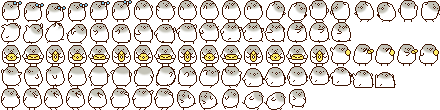
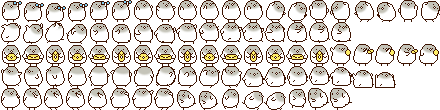
slow

Changed region(s): [[0.6795, 0.7909, 0.7977, 0.9818]]

diff --git a/example/billd/js/Player.js b/example/billd/js/Player.js
@@ -7,6 +7,8 @@
 	var jumpSpeed = -6;
 	var maxSpeed = 7;
 	var g = .2;
+	var LEFT = 1;
+	var RIGHT = 2;
 
 	var idleActions = ["play1", "play2", "play3", "stand1", "attack", "stand3"];
 	var IDLE_TIME = 300;
@@ -44,6 +46,7 @@
 		this.addAnimation("play1", "40-54", true, 6);
 		this.addAnimation("play2", "55-59", true, 6);
 		this.addAnimation("play3", "88-93", true, 6);
+		this.addAnimation("down", "94-95", true, 6);
 		this.addAnimation("jump2", "60-70", false, 8);
 		this.addAnimation("jump1", "71-77", false, 6);
 		this.addAnimation("attack", "80-87", true, 6);
@@ -55,7 +58,7 @@
 		this.bounds = this.getBounds();
 	};
 
-	Player.prototype.keyAction = function(){
+	Player.prototype.keyAction = function(){		
 		if(Math.abs(this.a.x) < .001 && (Keyboard.getIsDown("LEFT") || oState["l"]))
 		{
 			if(Keyboard.getKeyDelay("LEFT") < 300 || oState["l"] > 1)
@@ -91,7 +94,22 @@
 			this.angle = 0;
 		}
 
-		if(this.v.y == 0 && Keyboard.getIsDown("SPACE") && this.shootTime >= SHOOT_TIME)
+		this.a.y = g;
+		if(this.checkSlowDown()){
+			this.playAction("down");
+			this.idleTime = 0;
+
+			this.scaleX = this.slowDownType == RIGHT?-1:1;
+			this.a.y = this.v.y > 0?g*.1:g*1.2;
+
+			if(Keyboard.getIsDown("UP") || Mouse.isDown){
+				this.v.y = jumpSpeed;
+				this.angle = 0;
+
+				this.a.x = this.slowDownType == RIGHT?-maxSpeed*.1:maxSpeed*.1;
+			}
+		}
+		else if(this.v.y == 0 && Keyboard.getIsDown("SPACE") && this.shootTime >= SHOOT_TIME)
 		{
 			this.playAction("play2");
 			this.idleTime = 0;
@@ -125,6 +143,7 @@
 		}
 	};
 
+
 	Player.prototype.playAction = function(name){
 		if(name == "idle")
 		{
@@ -150,6 +169,28 @@
 		}
 	};
 	
+	Player.prototype.checkSlowDown = function(){
+		return !this.onGround && (this.slowDownType == RIGHT && Keyboard.getIsDown("RIGHT") || (this.slowDownType == LEFT && Keyboard.getIsDown("LEFT")))
+	}
+
+	Player.prototype.slowDown = function(x, pos){
+		this.v.x = 0;
+		if(pos == LEFT){
+			this.pos.x = x + this.width*.5;
+		}
+		else{
+			this.pos.x = x - this.width*.5;
+		}
+		this.slowDownType = pos;
+	}
+
+	Player.prototype.walkOnGround = function(y, ang){
+		this.pos.y = y;
+		this.v.y = 0;
+		this.angle = ang;
+		this.onGround = true;
+	}
+
 	Player.prototype.checkMap = function(map)
 	{
 		//脚碰地
@@ -163,9 +204,7 @@
 					var data = dataArr[i];
 					if(data.y <= this.pos.y + 2 && data.y >= this.pos.y - 5)
 					{
-						this.pos.y = data.y;
-						this.v.y = 0;
-						this.angle = data.ang;
+						this.walkOnGround(data.y, data.ang);
 						break;
 					}
 				}
@@ -183,8 +222,7 @@
 					var x = dataArr[i];
 					if(x <= this.pos.x + this.width*.5 && x >= this.pos.x + this.width*.5 - 5)
 					{
-						this.pos.x = x - this.width*.5;
-						this.v.x = 0;
+						this.slowDown(x, RIGHT);
 						return;
 					}
 				}
@@ -198,8 +236,7 @@
 					var x = dataArr[i];
 					if(x <= this.pos.x - this.width*.5 + 5&& x >= this.pos.x - this.width*.5)
 					{
-						this.pos.x = x + this.width*.5;
-						this.v.x = 0;
+						this.slowDown(x, LEFT);
 						return;
 					}
 				}
@@ -215,8 +252,7 @@
 					var x = dataArr[i];
 					if(x <= this.pos.x + this.width*.5 && x >= this.pos.x + this.width*.5 - 5)
 					{
-						this.pos.x = x - this.width*.5;
-						this.v.x = 0;
+						this.slowDown(x, RIGHT);
 						return;
 					}
 				}
@@ -230,8 +266,7 @@
 					var x = dataArr[i];
 					if(x <= this.pos.x - this.width*.5 + 5&& x >= this.pos.x - this.width*.5)
 					{
-						this.pos.x = x + this.width*.5;
-						this.v.x = 0;
+						this.slowDown(x, LEFT);
 						return;
 					}
 				}
@@ -259,8 +294,7 @@
 				{
 					if(floor.pos.y <= this.pos.y + 2 && floor.pos.y >= this.pos.y - 5) 
 					{
-						this.pos.y = floor.pos.y;
-						this.v.y = 0;
+						this.walkOnGround(floor.pos.y, 0);
 						this.floorV = floor.v.x;
 						return;
 					}
@@ -301,6 +335,9 @@
 		this.pos.plus(this.v);
 		this.pos.x += this.floorV;
 		this.a.x *= .9;
+
+		this.onGround = false;
+		this.slowDownType = 0;
 
 		this.checkMap(ns.map);
 		this.checkFloors(ns.floors);
